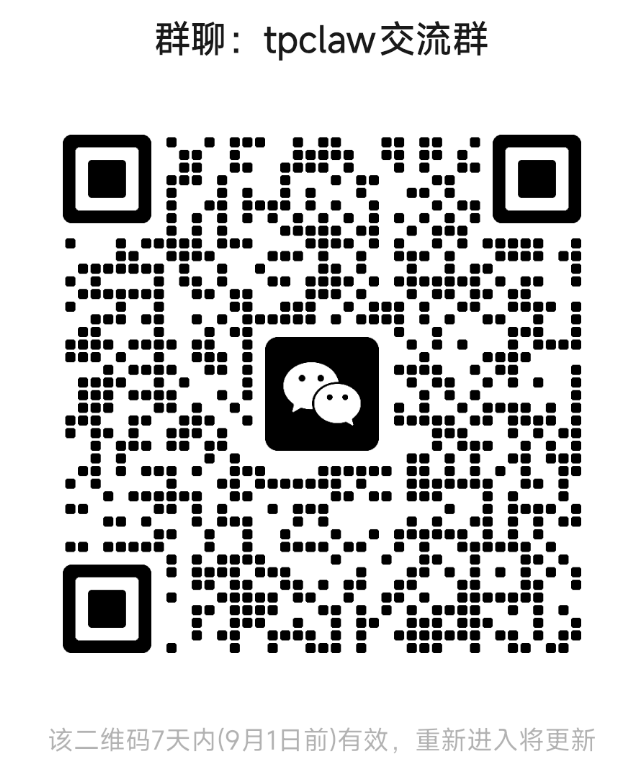
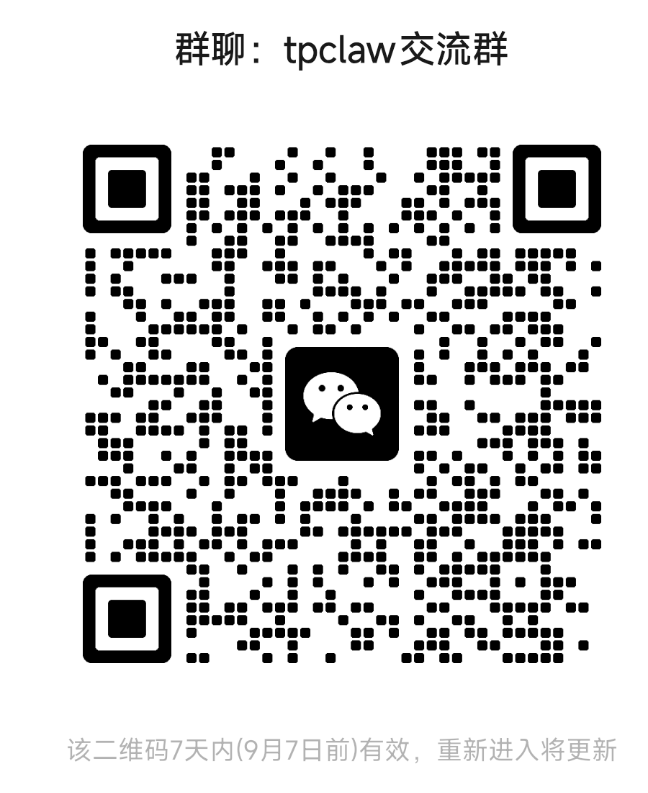
chore:更新群二维码，和公共页面

diff --git a/docs/.vitepress/theme/components/Notice.vue b/docs/.vitepress/theme/components/Notice.vue
@@ -27,6 +27,8 @@ const dateText = computed(() => {
 })
 
 const visible = ref(false)
+// 默认矮卡；点击「展开全部」长高查看全部条目
+const expanded = ref(false)
 
 onMounted(() => {
   const n = notice.value
@@ -67,9 +69,19 @@ function mute() {
           <h3 class="notice-title">{{ notice.title }}</h3>
         </div>
         <span v-if="dateText" class="notice-date">{{ dateText }}</span>
-        <ul v-if="notice.items && notice.items.length" class="notice-items">
-          <li v-for="(item, i) in notice.items" :key="i">{{ item }}</li>
-        </ul>
+        <button
+          v-if="notice.items && notice.items.length > 1"
+          class="notice-expand"
+          :aria-expanded="expanded"
+          @click="expanded = !expanded"
+        >
+          {{ expanded ? '收起 ▴' : `展开全部（${notice.items.length} 条）▾` }}
+        </button>
+        <div class="notice-list-wrap" :class="{ 'is-collapsed': !expanded }">
+          <ul v-if="notice.items && notice.items.length" class="notice-items" :class="{ expanded }">
+            <li v-for="(item, i) in notice.items" :key="i">{{ item }}</li>
+          </ul>
+        </div>
         <div class="notice-footer">
           <a v-if="notice.link" :href="notice.link" class="notice-link">
             {{ notice.linkText || '查看详情' }} →
@@ -156,12 +168,55 @@ function mute() {
   color: var(--vp-c-text-3);
 }
 
+.notice-expand {
+  display: inline-block;
+  margin-top: 6px;
+  padding: 0;
+  font-size: 12px;
+  font-weight: 600;
+  color: var(--vp-c-brand-1);
+  background: transparent;
+  border: none;
+  cursor: pointer;
+}
+
+.notice-expand:hover {
+  text-decoration: underline;
+}
+
+.notice-list-wrap {
+  position: relative;
+}
+
+/* 收起态列表底部渐隐，提示下方还有内容 */
+.notice-list-wrap.is-collapsed::after {
+  content: '';
+  position: absolute;
+  right: 0;
+  bottom: 0;
+  left: 0;
+  height: 34px;
+  background: linear-gradient(transparent, var(--vp-c-bg));
+  pointer-events: none;
+}
+
 .notice-items {
+  /* 卡片锚定右下向上生长：默认限高矮卡少遮内容，点击「展开全部」后再长高看全部 */
+  max-height: 144px;
   margin: 12px 0 0;
   padding-left: 20px;
+  overflow-y: auto;
   list-style: disc;
   color: var(--vp-c-text-2);
   line-height: 1.85;
+  scrollbar-width: thin;
+  scrollbar-color: var(--vp-c-divider) transparent;
+  overscroll-behavior: contain;
+  transition: max-height 0.4s cubic-bezier(0.22, 1, 0.36, 1);
+}
+
+.notice-items.expanded {
+  max-height: min(62vh, 620px);
 }
 
 .notice-items ::marker {
@@ -170,6 +225,15 @@ function mute() {
 
 .notice-items li {
   font-size: 13.5px;
+}
+
+.notice-items::-webkit-scrollbar {
+  width: 4px;
+}
+
+.notice-items::-webkit-scrollbar-thumb {
+  background: var(--vp-c-divider);
+  border-radius: 2px;
 }
 
 .notice-footer {
@@ -229,6 +293,10 @@ function mute() {
 @media (prefers-reduced-motion: reduce) {
   .notice-pop-enter-active,
   .notice-pop-leave-active {
+    transition: none;
+  }
+
+  .notice-items {
     transition: none;
   }
 }
